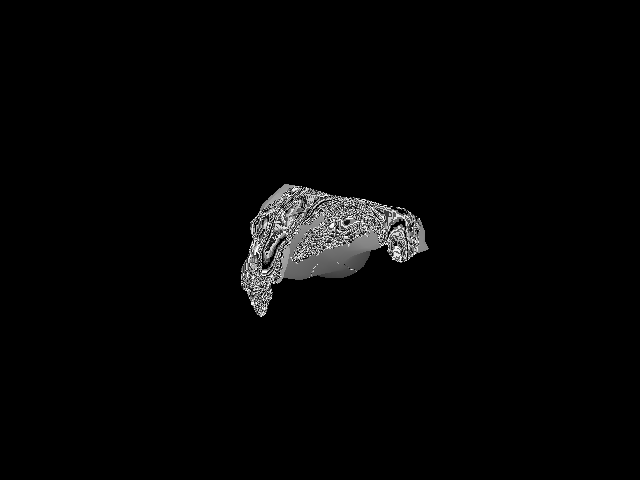
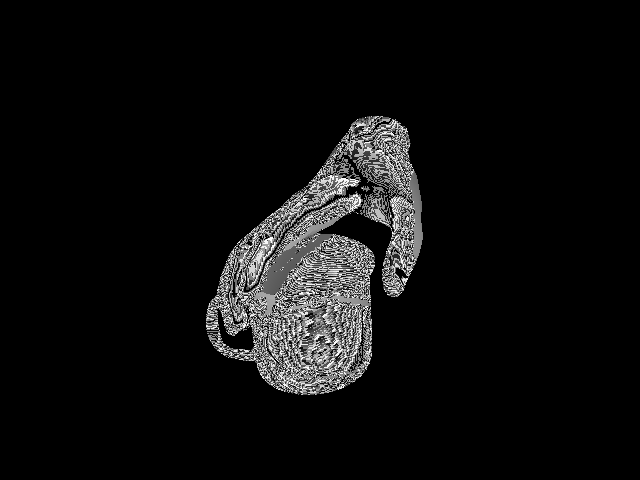
.

Changed region(s): [[0.3125, 0.2188, 0.6875, 0.8438]]

diff --git a/config.py b/config.py
@@ -4,7 +4,7 @@ import os
 CFG_DATA_DIR = os.path.join(os.getcwd(), 'dataset')
 
 CFG_LR_INIT = 0.2
-CFG_LR_INIT_OBJ = 0.002
+CFG_LR_INIT_OBJ = 0.001
 
 CFG_NUM_ITER = 300
 CFG_DEVICE = 'cuda'
